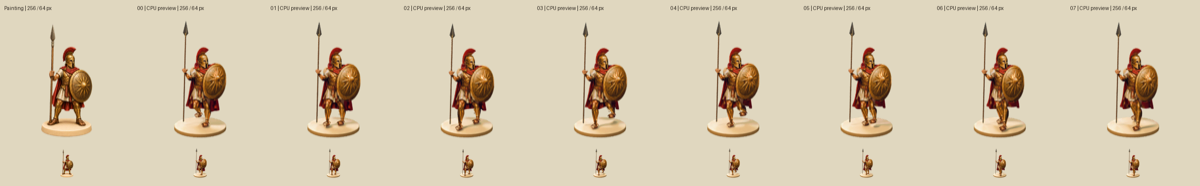
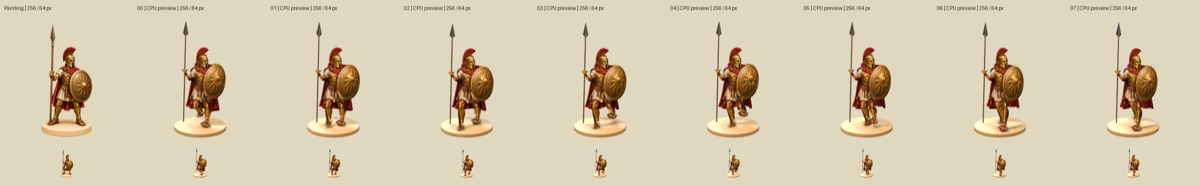
3D spearman interim review images

diff --git a/tools/art/anim3d/review/horseman-log.md b/tools/art/anim3d/review/horseman-log.md
@@ -39,3 +39,10 @@
 - Sculpted horse bind vertices and attached tack from measured anatomical screen landmarks while preserving full depth and original skin weights; removed the thin source tail and replaced it with skinned locks. This remains approximate anatomy, not painting parity.
 - Added keyed solid reins joining actual noseband and rider hand. First geometry audit caught base penetration after sculpture; corrected ground placement from actual mesh extents. Foot-control heights are no longer sole positions after sculpture, so support audit now measures weighted hoof vertices.
 - Replaced old fixed 256 atlas/quality-60 packer with 160 px alpha-trimmed rows, complete offsets/anchors, quality floor 75 and hard 200000-byte cap. GPU handoff retains 512/256 masters and encodes/verifies the required eight-second five-clip movie.
+- Visual review rejected the retimed canter and source tail-chain motion after the sculpture: legs exaggerated and tail still a straight rod. Switched move to the licensed 28-frame Walk cycle; replaced tail motion with volumetric locks anchored at Tail1, authored gravity-shaped curvature/sway, and no flattened geometry.
+- Added attack/hit rest-pose blending and death arm slump. Final pixel validation caught a clipped death spear at sample 2; lowered its angle during the fall and rerendered death. Reins now pass a numerical endpoint audit at every sample; walking support uses actual hoof vertices.
+- Full 8-bit alpha exceeded 200 KB at quality 75. Quantizing alpha to 32 levels (max 4/255 error) and clearing invisible RGB produced 199202 bytes at quality 90, 1038x756, all 40 trimmed 160 px frames. Final delivery validation: zero findings. Geometry audit: five clips, zero errors. No RGB posterization or dropped frames.
+- Required horseman-round2.mp4 exists; ffprobe verified 240 frames, 8 seconds, 1600x348, H.264 yuv420p. Reviewed all five strips and decoded atlas; native 256 and 64 comparisons still fail painting parity: horse too slight, rear legs awkward, face/helmet/cloth less refined, narrow silhouette and rigid-looking tack. No PASS.
+- Final CPU evidence: 256 image sets for every clip and stage, 512 detail render, all outside git. Full 512/256 GPU pass remains for the lead via ROUND=2 tools/art/anim3d/units/horseman/gpu.sh. Loaded six Blender skills applied to camera-pixel joint targets, weighted anatomical sculpture, preserved scan/bake/generated-fill materials, product lighting, keyed motion and decoded delivery verification.
+- Final source checks passed: 22 Python files parse, both shell scripts pass bash -n, git diff --check clean. Already-fetched origin/master is an ancestor of HEAD; no merge needed. Movie frame visually checked after ffprobe validation.
+- Commit attempt failed: sandbox denied .git/worktrees/lane-6/index.lock. Changes remain uncommitted for the runner, with exact message and requested co-author footer in horseman-commit-message.txt. No push, PR, master merge or PASS marker.

diff --git a/tools/art/anim3d/review/spearman-log.md b/tools/art/anim3d/review/spearman-log.md
@@ -31,3 +31,9 @@
 - Honest round-4 critique at 256px: shield extends too far right and below the painted contour, hiding torso width; spear-side shoulder is pale and abrupt; cloak/feet and crest contours differ; stone disc has a heavy dark rim and overly smooth lit top. Painted gold and red identity is strong but rest is readily distinguishable. At 64px it reads as the same spearman, with visibly wider shield, different feet/base and less coherent silhouette.
 - Motion critique: all five actions read, but lifted foot/shoulder paint stretches; attack keeps the shaft through the hand; death loses the old cape shelf but cloak/skin near the back look pale. No PASS warranted.
 - Read all PLAYBOOK chapters, full shared and unit feedback, prior running log, art skill and SOURCES; loaded all six Blender skills. Round 5 uses camera-depth-preserving geometry registration, beveled solid kit, existing image-generated unseen fills, product lighting and a single fixed histogram grade.
+- Round 5 first previews: registered complete shield outline, fitted shoulder through inverse skin matrices, shifted spear-side shin/toe inward, broadened opposite real sandal and foot together. Kept topology, weights, depth, beveled kit and existing generated fills.
+- Color correction: Standard/None preserves the painting illumination instead of a second AgX compression; warm key made less orange, soft cool fill retained, low pigment emission opens the physical stone rim without projecting feet. One histogram grade remains frozen for all clips.
+- Rest CPU diagnostic after final fitting: silhouette IoU 0.8644 (round 4 0.8511), union RGB error 29.88/35.29/35.39 (round 4 33.54/38.35/39.69). Better, still visibly different in base profile, sleeve edge and crest. No PASS.
+- GPU handoff now fails early on missing requested GPU, rebuilds projection before all five clips, and retains the requested round log with failed-stage reporting. Missing prior GPU log cannot be diagnosed as a successful or failed render.
+- Round 5 rebuilt and CPU-rendered idle: 256px / 12 samples, frozen rest grade.
+- Round 5 rebuilt and CPU-rendered move: 256px / 12 samples, frozen rest grade.
